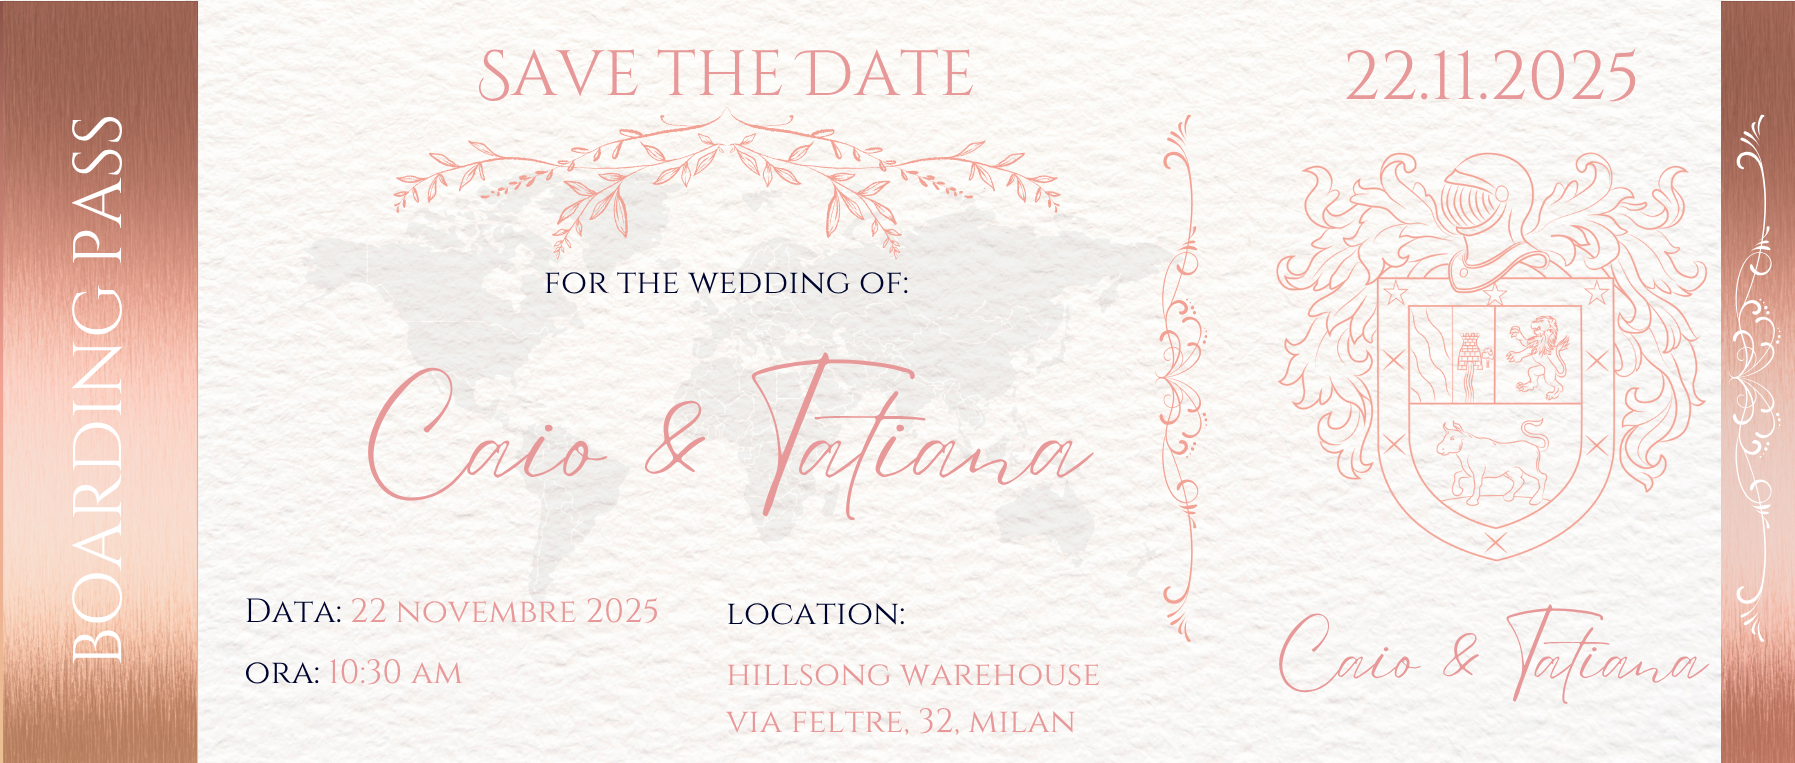
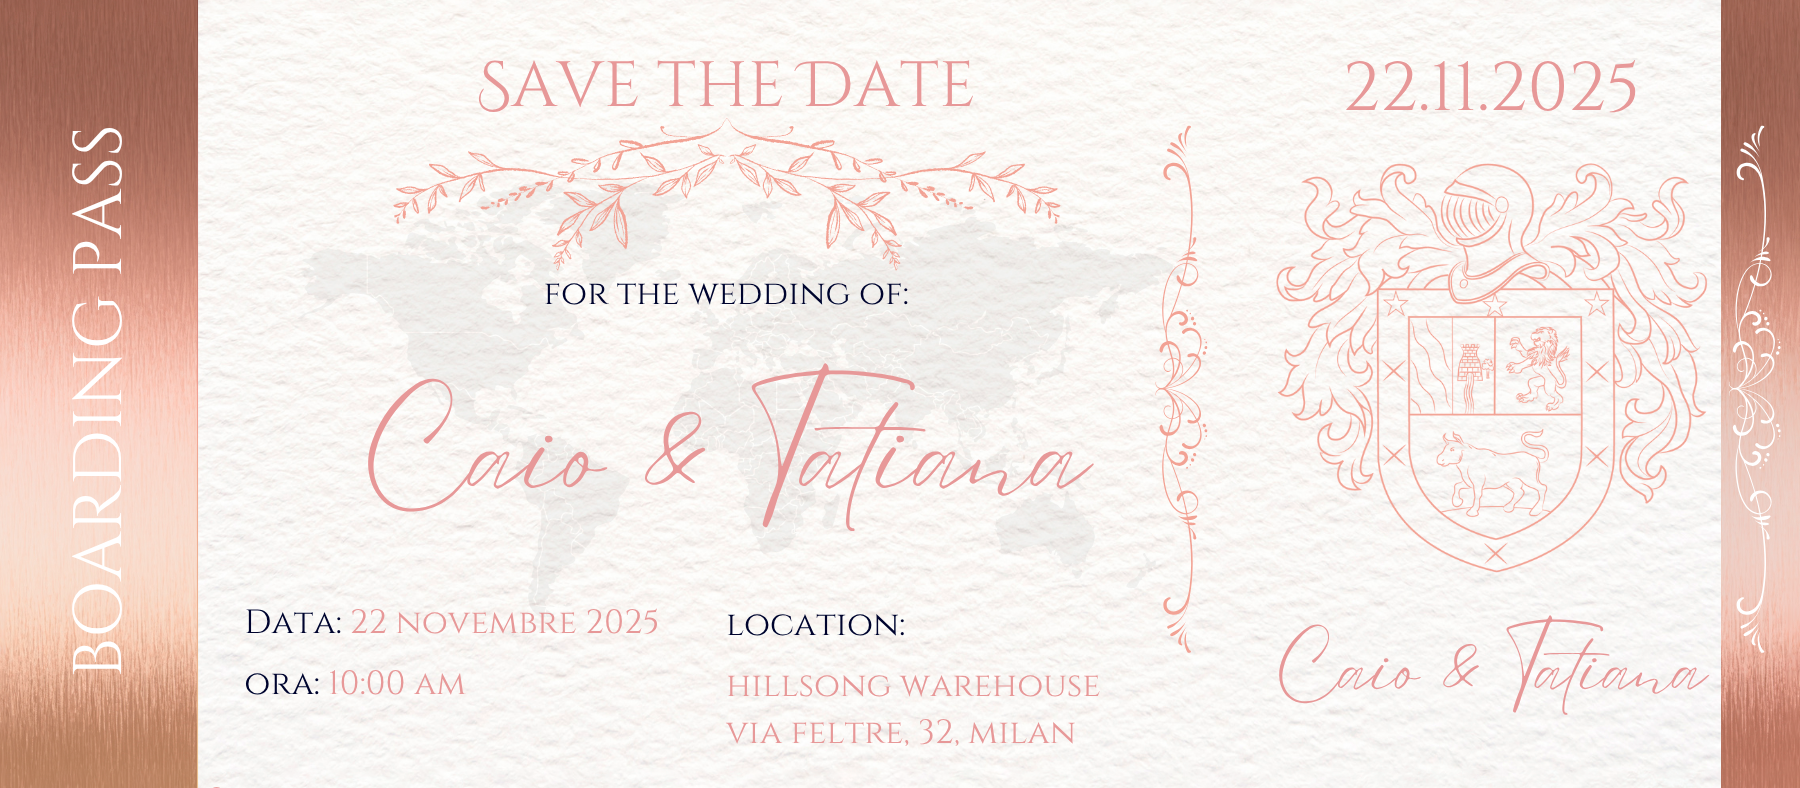
Fix changes first steps

diff --git a/src/app/components/home/home.css b/src/app/components/home/home.css
@@ -51,7 +51,7 @@
   border-top-right-radius: 48px;
   box-shadow: 0 -8px 32px #0002;
   padding: 64px 0 0 0;
-  min-height: 7ì80vh;
+  min-height: 50vh;
   animation: fadeInUp 1s;
 }
 .section-scroll-over > * { position: relative; z-index: 1; }
@@ -64,7 +64,7 @@
 }
 .bp-frame{
   width: min(92vw, 1600px);
-  margin: 40px auto clamp(48px, 6vh, 72px) !important;
+  margin:45px auto clamp(48px, 6vh, 72px) !important;
   overflow: visible;         /* <-- NON taglia più l’immagine */
   border-radius: 8px;
 }
@@ -101,18 +101,18 @@
 .hero-save-date {
   font-size: 2.6rem;
   margin-bottom: 2.6rem;
-  color: #af4261;
+  color: #0E294D;
 }
 
 .hero-address {
   font-size: 2.15rem;
   padding-bottom: 4.2rem;
-  color: #af4261;
+  color: #0E294D;
 }
 
 .hero-message {
   font-size: 2.2rem;
-  color: #af4261;
+  color: #0E294D;
   border-radius: 12px;
   padding: 10px auto 50px;
   display: inline-block;
@@ -120,13 +120,37 @@
   margin-bottom: 0px;
   letter-spacing: 1.2px;
 }
+.btn-rose{
+  /* palette rosa per QUESTO bottone */
+  --mat-button-filled-container-color: #dea193;
+  --mat-button-filled-label-text-color: #FFFFFF;
+
+  border-radius: 999px;
+  padding: 20px 18px;
+  text-transform: none;
+  font-weight: 600;
+  letter-spacing: .2px;
+  margin-bottom: 35px;
+}
 @media (max-width: 1600px) {
   .bp-frame{ width: min(92vw, 800px); 
   
     margin: 20px auto 28px;
+    
 }
 
+.btn-rose{
+  /* palette rosa per QUESTO bottone */
+  --mat-button-filled-container-color: #dea193;
+  --mat-button-filled-label-text-color: #FFFFFF;
 
+  border-radius: 999px;
+  padding: 20px 18px;
+  text-transform: none;
+  font-weight: 600;
+  letter-spacing: .2px;
+  margin-bottom: 35px;
+}
 }
 /* ===== iPhone / mobile stretto ===== */
 @media (max-width: 960px) {
@@ -135,7 +159,8 @@
     --shift-x: 0px;
   }
   
-  .bp-frame{ width: min(94vw, 720px); }
+  .bp-frame{ width: min(94vw, 720px);
+  margin-top:15px }
   .scroll-over-img{ transform: translateY(-40px); }
   /* usa 100svh per l'altezza reale della viewport mobile */
   .hero-background{
@@ -195,8 +220,8 @@
   .bp-frame{
     position: relative;
     width: min(600px, 92vw); /* larghezza mobile */
-    height: 1500px;           /* altezza voluta */
-    margin: -12px auto 24px;
+    height: 1000px;           /* altezza voluta */
+    margin: -320px auto 24px;
     overflow: hidden;
     border-radius: 8px;
   }
@@ -205,32 +230,32 @@
     left: 50%;
     top: 50%;
     width: auto;
-    height: 904px;           /* base per la scala */
+    height: 604px;           /* base per la scala */
     max-width: none;         /* evita limiti ereditati */
     transform: translate(-50%, -50%) rotate(90deg) scale(0.70);
     transform-origin: 50% 50%;
   }
 }
 .hero-actions{
-   margin-top: clamp(32px, 5vh, 64px) !important;
+  margin-top: clamp(12px, 15vh, 4px) !important;
   gap: clamp(14px, 2vw, 20px) !important;
   display:flex; flex-direction:column; align-items:center; gap:10px;
 }
 .hero-note{
   font-size:clamp(16px,2.2vw,18px); line-height:1.35;
-  color:var(--muted,#fd3d2f); text-align:center; 
-  background:rgba(255,255,255,.7); border-radius:999px;
+  color:var(--muted,#0E294D); text-align:center; 
+  border-radius:999px;
   margin-bottom: 50px !important;
 }
 
-/* ⚠ selettore giusto per mat-flat-button */
+/* selettore giusto per mat-flat-button */
 .btn-rose.mat-mdc-unelevated-button{
   border-radius:999px !important;
   padding:10px 18px !important;
   box-shadow:0 10px 28px #00000014;
   text-transform:none;           /* no maiuscole */
   font-weight:600; letter-spacing:.2px;
-  background-color:#af4261 !important;
+  background-color:#dea193 !important;
 }
 
 /* label interna + iconcina */
@@ -239,7 +264,7 @@
 }
 .btn-rose{
   /* palette rosa per QUESTO bottone */
-  --mat-button-filled-container-color: #AF4261;
+  --mat-button-filled-container-color: #dea193;
   --mat-button-filled-label-text-color: #FFFFFF;
 
   border-radius: 999px;
@@ -247,6 +272,7 @@
   text-transform: none;
   font-weight: 600;
   letter-spacing: .2px;
+  margin-bottom: 25px;
 }
 .btn-rose .arrow{ display:inline-block; transition:transform .2s ease; }
 .btn-rose:hover .arrow{ transform:translateX(4px) translateY(2px) rotate(-18deg); }

diff --git a/src/app/components/our-story/our-story.css b/src/app/components/our-story/our-story.css
@@ -24,7 +24,7 @@
   font-size: clamp(.72rem, .9vw, .85rem);
   color: var(--muted);
   margin: 0 0 10px;
-    color: #000000;
+    color: #0E294D;
 
 }
 
@@ -66,7 +66,7 @@
   color: var(--muted);
   margin: 0 auto;
   max-width: 900px;
-    color: #000000;
+    color: #0E294D;
 
 }
 
@@ -94,7 +94,7 @@
   color: var(--muted);
   text-align: center;
   padding: 28px 12px 64px;
-    color: #af4261;
+    color: #0E294D;
 
 }
 .back-top{
@@ -121,7 +121,6 @@
 .collage-grid{
   display: grid;
   grid-template-columns: 1.35fr .95fr;
-  grid-template-rows: 1fr 1fr;
   grid-template-areas: "a b" "a c";
   gap: clamp(8px, 1.6vw, 16px);
 }

diff --git a/src/app/components/regali/regali.css b/src/app/components/regali/regali.css
@@ -194,7 +194,7 @@
 
 /* azioni, qr, toast */
 .actions{display:flex;gap:10px;flex-wrap:wrap;margin-top:14px;justify-content:center}
-.btn{background:var(--accent);color:#fff;border:0;border-radius:12px;padding:10px 14px;cursor:pointer;box-shadow:var(--shadow)}
+.btn{background:var(--accent);color:#0E294D;border:0;border-radius:12px;padding:10px 14px;cursor:pointer;box-shadow:var(--shadow); font-size: 15px;}
 .btn:hover{filter:brightness(.97)}
 .btn--ghost{background:transparent;color:var(--accent);border:1px solid var(--accent);box-shadow:none}
 .qr{display:grid;place-items:center;gap:6px;margin-top:14px;justify-items:center}

diff --git a/src/app/components/home/home.html b/src/app/components/home/home.html
@@ -19,10 +19,10 @@
   class="btn-rose"
   [routerLink]="['/', basePrefix, 'our-story']"
   aria-label="Vai alla nostra storia"
-  [style.--mat-button-filled-container-color]="'#AF4261'"
+  [style.--mat-button-filled-container-color]="'#dea193'"
   [style.--mat-button-filled-label-text-color]="'#FFFFFF'"
-  [style.--mat-button-filled-container-height]="'100px'"
-  [style.--mat-button-filled-container-width]="'150px'">
+  [style.--mat-button-filled-container-height]="'60px'"
+  [style.--mat-button-filled-container-width]="'200px'">
   La nostra storia <span class="arrow" aria-hidden="true">↘</span>
 </button>
 

diff --git a/src/app/components/page-loader/page-loader.css b/src/app/components/page-loader/page-loader.css
@@ -9,7 +9,7 @@
 
 .hearts{ position:relative; width:220px; height:160px; filter:drop-shadow(0 6px 18px rgba(0,0,0,.18)); }
 .heart{
-  --c: var(--accent-2, #af4261);
+  --c: var(--accent-2, #dea193);
   position:absolute; left:50%; bottom:0; width:28px; height:28px; background:var(--c);
   transform: translateX(calc(-50% + var(--x,0))) rotate(-45deg);
   animation: float 2200ms infinite ease-in; animation-delay: var(--d,0ms);

diff --git a/src/app/components/regali/regali.html b/src/app/components/regali/regali.html
@@ -101,7 +101,6 @@
 
       <div class="actions">
         <button class="btn" (click)="copyFull()">Copia tutti i dati</button>
-        <button class="btn btn--ghost" (click)="toggleQr()">{{ showQr ? 'Nascondi QR' : 'Mostra QR' }}</button>
       </div>
 
       <div class="qr" *ngIf="showQr && qrSrc">
